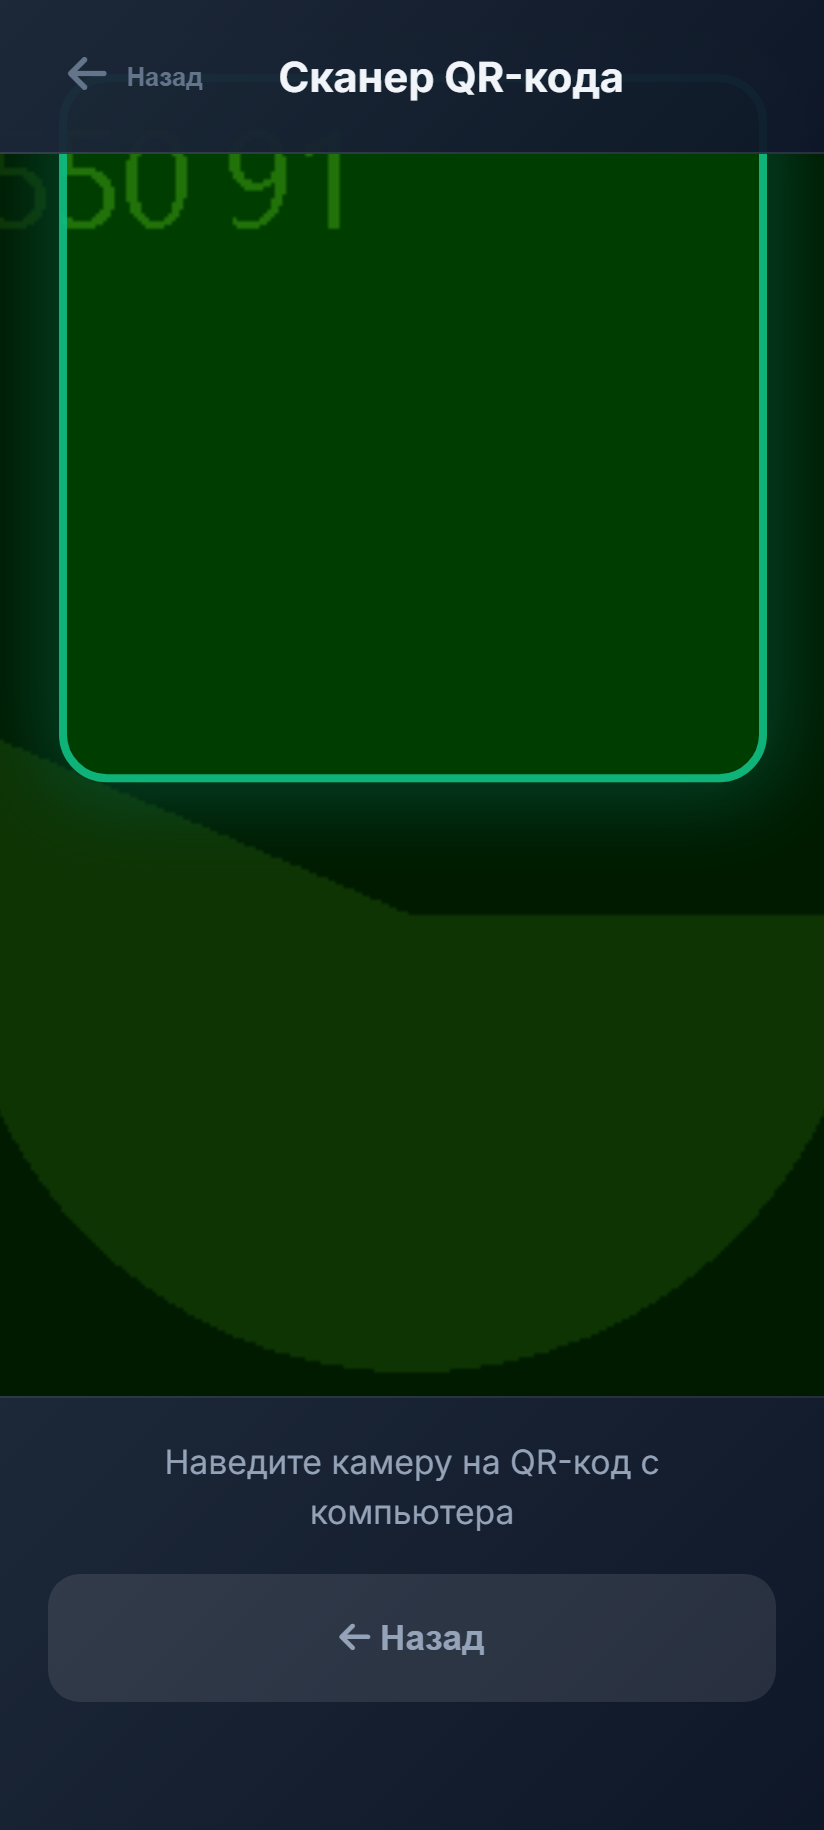
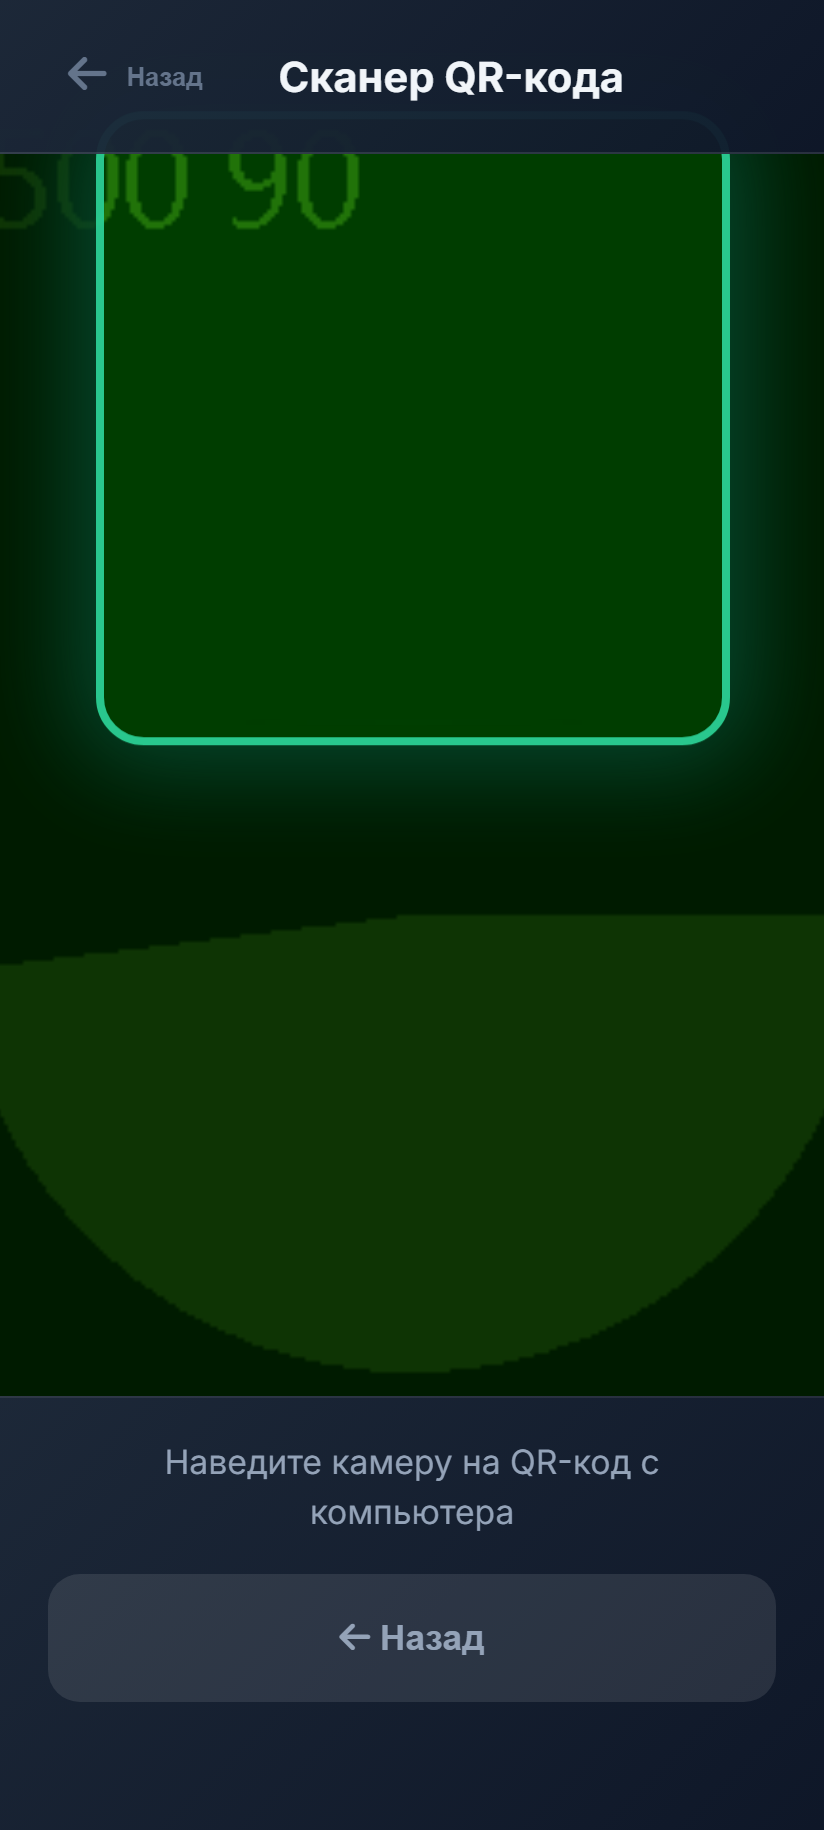
Add files via upload

Changed region(s): [[0.0, 0.0623, 0.9405, 0.5295], [0.3641, 0.0623, 0.4551, 0.1246]]

diff --git a/index.html b/index.html
@@ -1267,14 +1267,51 @@
         }
         /* Рамка следует за обнаруженным QR-кодом — как в Telegram */
         #scanZone.tracking {
-            animation: none;
+            animation: trackPulse 1.1s ease-in-out infinite;
             border-color: rgba(99, 102, 241, 0.95);
             box-shadow: 0 0 0 9999px rgba(0, 0, 0, 0.55), 0 0 36px 6px rgba(99, 102, 241, 0.65);
         }
         /* Найден именно код входа — рамка подсвечивается зелёным */
         #scanZone.tracking.lock {
+            animation: trackPulseLock 1.1s ease-in-out infinite;
             border-color: rgba(16, 185, 129, 0.95);
             box-shadow: 0 0 0 9999px rgba(0, 0, 0, 0.55), 0 0 40px 8px rgba(16, 185, 129, 0.7);
+        }
+        @keyframes trackPulse {
+            0%, 100% { border-color: rgba(99, 102, 241, 0.85); box-shadow: 0 0 0 9999px rgba(0,0,0,0.55), 0 0 26px 4px rgba(99, 102, 241, 0.5); }
+            50% { border-color: rgba(129, 140, 248, 1); box-shadow: 0 0 0 9999px rgba(0,0,0,0.55), 0 0 50px 10px rgba(99, 102, 241, 0.85); }
+        }
+        @keyframes trackPulseLock {
+            0%, 100% { border-color: rgba(16, 185, 129, 0.85); box-shadow: 0 0 0 9999px rgba(0,0,0,0.55), 0 0 28px 5px rgba(16, 185, 129, 0.55); }
+            50% { border-color: rgba(52, 211, 153, 1); box-shadow: 0 0 0 9999px rgba(0,0,0,0.55), 0 0 55px 12px rgba(16, 185, 129, 0.9); }
+        }
+        /* Анимация сканирования: луч идёт сверху вниз внутри рамки */
+        #scanZone .scan-beam {
+            position: absolute;
+            left: 8%;
+            right: 8%;
+            top: 6%;
+            height: 3px;
+            border-radius: 999px;
+            background: linear-gradient(90deg, rgba(129, 140, 248, 0), rgba(129, 140, 248, 0.95), rgba(129, 140, 248, 0));
+            box-shadow: 0 0 12px 2px rgba(99, 102, 241, 0.6);
+            opacity: 0;
+            pointer-events: none;
+            z-index: 9;
+        }
+        #scanZone.scanning .scan-beam,
+        #scanZone.tracking .scan-beam {
+            animation: beamSweep 1.5s ease-in-out infinite;
+        }
+        #scanZone.tracking.lock .scan-beam {
+            background: linear-gradient(90deg, rgba(52, 211, 153, 0), rgba(52, 211, 153, 0.95), rgba(52, 211, 153, 0));
+            box-shadow: 0 0 12px 2px rgba(16, 185, 129, 0.65);
+        }
+        @keyframes beamSweep {
+            0% { top: 6%; opacity: 0; }
+            15% { opacity: 1; }
+            85% { opacity: 1; }
+            100% { top: calc(100% - 9px); opacity: 0; }
         }
         #scanZone.success .scan-success-overlay {
             opacity: 1;
@@ -1888,6 +1925,7 @@
             <div id="scanOverlay" style="position: absolute; top: 0; left: 0; right: 0; bottom: 0; pointer-events: none; z-index: 5;">
                 <div style="position: absolute; top: 0; left: 0; right: 0; bottom: 0; background: rgba(0,0,0,0.55);"></div>
                 <div id="scanZone">
+                    <div class="scan-beam"></div>
                     <div class="scan-success-overlay"></div>
                 </div>
             </div>
@@ -4257,7 +4295,9 @@
             lastSeen: 0,
             busy: false,
             lastDetect: 0,
-            frames: 0
+            frames: 0,
+            base: null,      // базовый (домашний) размер рамки, px
+            size: null       // сглаженный размер {w, h} — рамка «зажимается» под код
         };
         var lastQRVibe = 0;
 
@@ -4270,6 +4310,8 @@
             qrTrack.busy = false;
             qrTrack.lastDetect = 0;
             qrTrack.frames = 0;
+            qrTrack.base = null;
+            qrTrack.size = null;
             if (!qrTrack.canvas) {
                 qrTrack.canvas = document.createElement('canvas');
                 qrTrack.ctx = qrTrack.canvas.getContext('2d', { willReadFrequently: true });
@@ -4375,31 +4417,49 @@
             return rect;
         }
 
-        // Плавная анимация: рамка едет за кодом и возвращается домой при потере
+        // Плавная анимация: рамка едет за кодом, «зажимается» под его размер
+        // и возвращается домой при потере цели
         function qrTrackAnimate(zone, overlay, now) {
             if (zone.classList.contains('success')) return; // финальная анимация — не мешаем
             var cw = overlay.clientWidth;
             var ch = overlay.clientHeight;
-            var w = zone.offsetWidth;
-            var h = zone.offsetHeight;
-            if (!w || !h) return;
+            // Базовый (домашний) размер рамки запоминается один раз — до inline-правок
+            if (!qrTrack.base) {
+                var bw = zone.offsetWidth;
+                var bh = zone.offsetHeight;
+                if (bw && bh) qrTrack.base = { w: bw, h: bh };
+            }
+            var base = qrTrack.base;
+            if (!base) return;
 
             if (qrTrack.target && now - qrTrack.lastSeen > 350) qrTrack.target = null;
             var dest;
+            var destW = base.w;
+            var destH = base.h;
             if (qrTrack.target) {
                 dest = {
                     x: qrTrack.target.x + qrTrack.target.w / 2,
                     y: qrTrack.target.y + qrTrack.target.h / 2
                 };
+                // Зона уменьшается и «зажимает» код: rect уже включает pad 8px с каждой стороны
+                destW = Math.min(base.w, Math.max(qrTrack.target.w + 8, 120));
+                destH = Math.min(base.h, Math.max(qrTrack.target.h + 8, 120));
             } else {
                 // Домашняя позиция — как в CSS: по центру и 44% высоты (43% на низких экранах)
                 dest = { x: cw / 2, y: ch * (window.innerHeight <= 660 ? 0.43 : 0.44) };
             }
             if (!qrTrack.current) qrTrack.current = { x: dest.x, y: dest.y };
+            if (!qrTrack.size) qrTrack.size = { w: base.w, h: base.h };
             var k = qrTrack.target ? 0.22 : 0.1;
             qrTrack.current.x += (dest.x - qrTrack.current.x) * k;
             qrTrack.current.y += (dest.y - qrTrack.current.y) * k;
+            qrTrack.size.w += (destW - qrTrack.size.w) * k;
+            qrTrack.size.h += (destH - qrTrack.size.h) * k;
 
+            zone.style.width = qrTrack.size.w.toFixed(1) + 'px';
+            zone.style.height = qrTrack.size.h.toFixed(1) + 'px';
+            var w = zone.offsetWidth;
+            var h = zone.offsetHeight;
             var cx = cw >= w ? Math.min(Math.max(qrTrack.current.x, w / 2), cw - w / 2) : cw / 2;
             var cy = ch >= h ? Math.min(Math.max(qrTrack.current.y, h / 2), ch - h / 2) : ch / 2;
             zone.style.left = '0';
@@ -4426,12 +4486,16 @@
             }
             qrTrack.target = null;
             qrTrack.current = null;
+            qrTrack.base = null;
+            qrTrack.size = null;
             var zone = document.getElementById('scanZone');
             if (zone) {
                 zone.classList.remove('tracking', 'lock');
                 zone.style.left = '';
                 zone.style.top = '';
                 zone.style.transform = '';
+                zone.style.width = '';
+                zone.style.height = '';
             }
         }
         function openQRScanner() {

diff --git a/_track_test.py b/_track_test.py
@@ -166,7 +166,8 @@ def main():
     vw: v ? v.videoWidth : 0, vh: v ? v.videoHeight : 0,
     frames: qrTrack.frames, active: qrTrack.active, useNative: qrTrack.useNative,
     status: document.getElementById('scannerStatus').textContent,
-    transform: z.style.transform, tracking: z.classList.contains('tracking')
+    transform: z.style.transform, tracking: z.classList.contains('tracking'),
+    w: z.offsetWidth, h: z.offsetHeight
   });})()"""))
         log('start', results['start'])
 
@@ -199,6 +200,8 @@ def main():
     cy: m ? Math.round((parseFloat(m[2]) + z.offsetHeight / 2) * 10) / 10 : null,
     w: z.offsetWidth, h: z.offsetHeight,
     tracking: z.classList.contains('tracking'), lock: z.classList.contains('lock'),
+    beam: (function(){ var b = z.querySelector('.scan-beam'); var s = b ? getComputedStyle(b) : null;
+      return { exists: !!b, anim: s ? s.animationName : '', play: s ? s.animationPlayState : '' }; })(),
     ov: [ov.clientWidth, ov.clientHeight]
   });})()"""))
         log('track', results['track'])
@@ -229,6 +232,7 @@ def main():
     cx: m ? Math.round((parseFloat(m[1]) + z.offsetWidth / 2) * 10) / 10 : null,
     cy: m ? Math.round((parseFloat(m[2]) + z.offsetHeight / 2) * 10) / 10 : null,
     tracking: z.classList.contains('tracking'),
+    w: z.offsetWidth,
     homeX: Math.round(ov.clientWidth / 2 * 10) / 10,
     homeY: Math.round(ov.clientHeight * 0.44 * 10) / 10
   });})()"""))
@@ -244,6 +248,8 @@ def main():
   var z = document.getElementById('scanZone');
   return JSON.stringify({
     transform: z.style.transform, tracking: z.classList.contains('tracking'),
+    wStyle: z.style.width,
+    beamAnim: (function(){ var b = z.querySelector('.scan-beam'); return b ? getComputedStyle(b).animationName : 'missing'; })(),
     active: qrTrack.active
   });})()"""))
         log('closed', results['closed'])
@@ -290,12 +296,26 @@ def main():
     if fe:
         checks.append(('follow_err<20px', max(fe) < 20))
         checks.append(('moved_from_home>50px', (results.get('follow_err_home') or 0) > 50))
+    # Зона «зажимает» обнаруженный код: ширина рамки меньше базовой и ≈ rect + 8px
+    d = results.get('detect') or {}
+    tr = results.get('track') or {}
+    st = results.get('start') or {}
+    if st.get('w') and tr.get('w'):
+        checks.append(('zone_shrinks', tr['w'] < st['w']))
+    if d.get('ok') and (d.get('rect') or {}).get('w') and tr.get('w'):
+        checks.append(('zone_fits_code', abs(tr['w'] - (d['rect']['w'] + 8)) < 10))
+    # Анимация сканирования: луч beamSweep работает внутри рамки при слежении
+    bm = tr.get('beam') or {}
+    checks.append(('scan_beam_animation', 'beamSweep' in (bm.get('anim') or '') and bm.get('play') == 'running'))
     hm = results.get('home') or {}
     checks.append(('home_tracking_off', hm.get('tracking') is False))
     if hm.get('cx') is not None:
         checks.append(('home_pos', abs(hm['cx'] - hm['homeX']) < 5 and abs(hm['cy'] - hm['homeY']) < 5))
+    if st.get('w') and hm.get('w'):
+        checks.append(('home_size_restored', abs(hm['w'] - st['w']) <= 2))
     cl = results.get('closed') or {}
-    checks.append(('cleanup', cl.get('transform') == '' and cl.get('tracking') is False and cl.get('active') is False))
+    checks.append(('cleanup', cl.get('transform') == '' and cl.get('tracking') is False and cl.get('active') is False
+                   and cl.get('wStyle') == '' and cl.get('beamAnim') == 'none'))
     checks.append(('no_js_errors', len(results.get('consoleErrors') or []) == 0))
     print('CHECKS ' + json.dumps(checks, ensure_ascii=False), flush=True)
     failed = [c[0] for c in checks if not c[1]]
